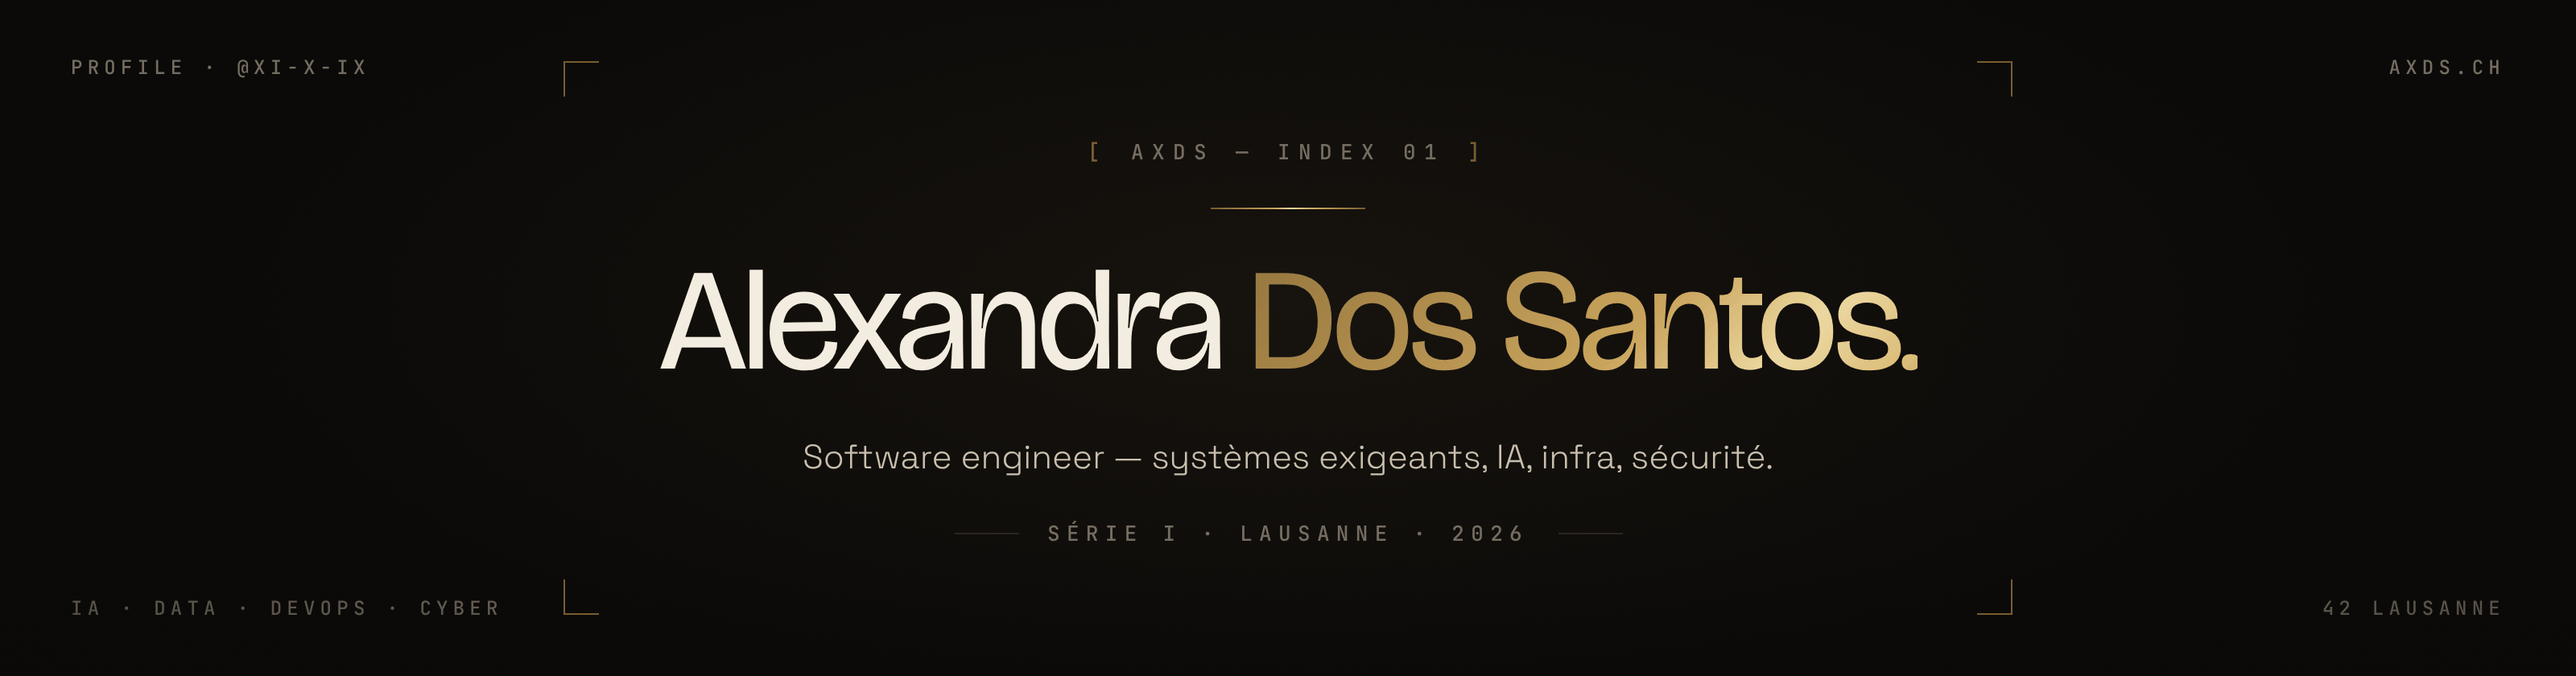
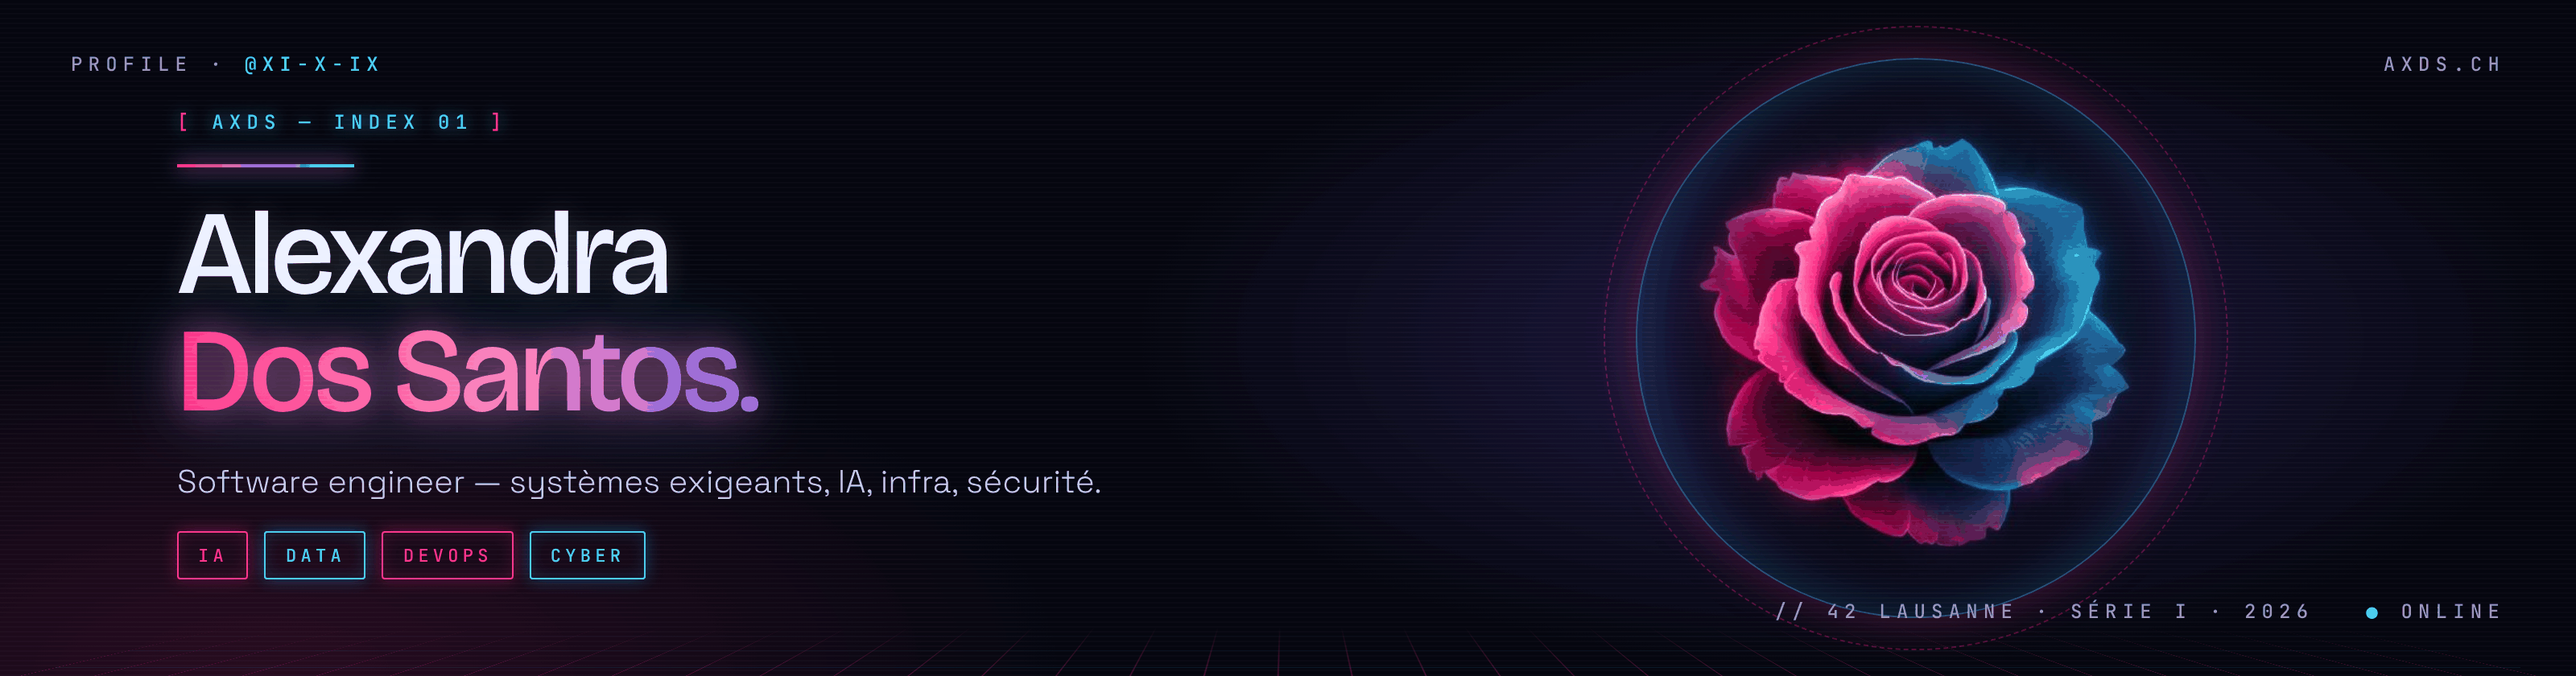
update: neon pink/blue theme for profile README
Banner and badges recolored to match the neon rose avatar: dark navy,
pink #ff2e88 and blue #22b8ff, avatar in the banner, retro grid. The
pixel-art cyber room GIF from the old README returns in the footer.

Claude-Session: https://claude.ai/code/session_01SvYvF74i9Tf2cNn3vD8FiA

diff --git a/README.md b/README.md
@@ -4,9 +4,9 @@
 
 <br>
 
-<a href="https://axds.ch"><img src="https://img.shields.io/badge/axds.ch-0a0908?style=for-the-badge&logo=googlechrome&logoColor=c9a45c" alt="axds.ch" /></a>
-<a href="https://www.linkedin.com/in/axds"><img src="https://img.shields.io/badge/LinkedIn-0a0908?style=for-the-badge&logo=linkedin&logoColor=c9a45c" alt="LinkedIn" /></a>
-<a href="mailto:contact@axds.ch"><img src="https://img.shields.io/badge/contact@axds.ch-0a0908?style=for-the-badge&logo=maildotru&logoColor=c9a45c" alt="Email" /></a>
+<a href="https://axds.ch"><img src="https://img.shields.io/badge/axds.ch-0d0f22?style=for-the-badge&logo=googlechrome&logoColor=22b8ff" alt="axds.ch" /></a>
+<a href="https://www.linkedin.com/in/axds"><img src="https://img.shields.io/badge/LinkedIn-0d0f22?style=for-the-badge&logo=linkedin&logoColor=22b8ff" alt="LinkedIn" /></a>
+<a href="mailto:contact@axds.ch"><img src="https://img.shields.io/badge/contact@axds.ch-0d0f22?style=for-the-badge&logo=maildotru&logoColor=ff2e88" alt="Email" /></a>
 
 </div>
 
@@ -113,8 +113,8 @@ Huit ans en environnements exigeants — Assistant Manager au Southbank Centre (
 
 <div align="center">
 
-<img src="https://img.shields.io/badge/Common%20Core-100%25-0a0908?style=for-the-badge&logo=42&logoColor=c9a45c&labelColor=1b1814" alt="Common Core 100%" />
-<img src="https://img.shields.io/badge/42%20Advanced-Niveau%2011%20%2F%2021-0a0908?style=for-the-badge&logo=42&logoColor=c9a45c&labelColor=1b1814" alt="42 Advanced niveau 11/21" />
+<img src="https://img.shields.io/badge/Common%20Core-100%25-0d0f22?style=for-the-badge&logo=42&logoColor=ff2e88&labelColor=1a1d3a" alt="Common Core 100%" />
+<img src="https://img.shields.io/badge/42%20Advanced-Niveau%2011%20%2F%2021-0d0f22?style=for-the-badge&logo=42&logoColor=ff2e88&labelColor=1a1d3a" alt="42 Advanced niveau 11/21" />
 
 </div>
 
@@ -128,11 +128,11 @@ Huit ans en environnements exigeants — Assistant Manager au Southbank Centre (
 
 | | |
 |:--|:--|
-| **IA · Data** | ![Python](https://img.shields.io/badge/Python-12100e?style=flat-square&logo=python&logoColor=c9a45c) ![NumPy](https://img.shields.io/badge/NumPy-12100e?style=flat-square&logo=numpy&logoColor=c9a45c) ![Pandas](https://img.shields.io/badge/Pandas-12100e?style=flat-square&logo=pandas&logoColor=c9a45c) ![LangChain](https://img.shields.io/badge/LangChain-12100e?style=flat-square&logo=langchain&logoColor=c9a45c) ![Ollama](https://img.shields.io/badge/Ollama-12100e?style=flat-square&logo=ollama&logoColor=c9a45c) |
-| **DevOps** | ![Docker](https://img.shields.io/badge/Docker-12100e?style=flat-square&logo=docker&logoColor=c9a45c) ![Kubernetes](https://img.shields.io/badge/Kubernetes-12100e?style=flat-square&logo=kubernetes&logoColor=c9a45c) ![Terraform](https://img.shields.io/badge/Terraform-12100e?style=flat-square&logo=terraform&logoColor=c9a45c) ![GitHub Actions](https://img.shields.io/badge/GitHub%20Actions-12100e?style=flat-square&logo=githubactions&logoColor=c9a45c) ![NGINX](https://img.shields.io/badge/NGINX-12100e?style=flat-square&logo=nginx&logoColor=c9a45c) ![PostgreSQL](https://img.shields.io/badge/PostgreSQL-12100e?style=flat-square&logo=postgresql&logoColor=c9a45c) |
-| **Systèmes** | ![C](https://img.shields.io/badge/C-12100e?style=flat-square&logo=c&logoColor=c9a45c) ![C++](https://img.shields.io/badge/C%2B%2B-12100e?style=flat-square&logo=cplusplus&logoColor=c9a45c) ![Linux](https://img.shields.io/badge/Linux-12100e?style=flat-square&logo=linux&logoColor=c9a45c) ![Bash](https://img.shields.io/badge/Bash-12100e?style=flat-square&logo=gnubash&logoColor=c9a45c) ![Git](https://img.shields.io/badge/Git-12100e?style=flat-square&logo=git&logoColor=c9a45c) |
-| **Cyber** | ![Trivy](https://img.shields.io/badge/Trivy-12100e?style=flat-square&logo=aqua&logoColor=c9a45c) ![OWASP](https://img.shields.io/badge/OWASP-12100e?style=flat-square&logo=owasp&logoColor=c9a45c) ![Nmap](https://img.shields.io/badge/Nmap-12100e?style=flat-square) ![Wireshark](https://img.shields.io/badge/Wireshark-12100e?style=flat-square&logo=wireshark&logoColor=c9a45c) |
-| **Web** | ![TypeScript](https://img.shields.io/badge/TypeScript-12100e?style=flat-square&logo=typescript&logoColor=c9a45c) ![Next.js](https://img.shields.io/badge/Next.js-12100e?style=flat-square&logo=nextdotjs&logoColor=c9a45c) ![NestJS](https://img.shields.io/badge/NestJS-12100e?style=flat-square&logo=nestjs&logoColor=c9a45c) ![Prisma](https://img.shields.io/badge/Prisma-12100e?style=flat-square&logo=prisma&logoColor=c9a45c) |
+| **IA · Data** | ![Python](https://img.shields.io/badge/Python-0d0f22?style=flat-square&logo=python&logoColor=ff2e88) ![NumPy](https://img.shields.io/badge/NumPy-0d0f22?style=flat-square&logo=numpy&logoColor=ff2e88) ![Pandas](https://img.shields.io/badge/Pandas-0d0f22?style=flat-square&logo=pandas&logoColor=ff2e88) ![LangChain](https://img.shields.io/badge/LangChain-0d0f22?style=flat-square&logo=langchain&logoColor=ff2e88) ![Ollama](https://img.shields.io/badge/Ollama-0d0f22?style=flat-square&logo=ollama&logoColor=ff2e88) |
+| **DevOps** | ![Docker](https://img.shields.io/badge/Docker-0d0f22?style=flat-square&logo=docker&logoColor=22b8ff) ![Kubernetes](https://img.shields.io/badge/Kubernetes-0d0f22?style=flat-square&logo=kubernetes&logoColor=22b8ff) ![Terraform](https://img.shields.io/badge/Terraform-0d0f22?style=flat-square&logo=terraform&logoColor=22b8ff) ![GitHub Actions](https://img.shields.io/badge/GitHub%20Actions-0d0f22?style=flat-square&logo=githubactions&logoColor=22b8ff) ![NGINX](https://img.shields.io/badge/NGINX-0d0f22?style=flat-square&logo=nginx&logoColor=22b8ff) ![PostgreSQL](https://img.shields.io/badge/PostgreSQL-0d0f22?style=flat-square&logo=postgresql&logoColor=22b8ff) |
+| **Systèmes** | ![C](https://img.shields.io/badge/C-0d0f22?style=flat-square&logo=c&logoColor=22b8ff) ![C++](https://img.shields.io/badge/C%2B%2B-0d0f22?style=flat-square&logo=cplusplus&logoColor=22b8ff) ![Linux](https://img.shields.io/badge/Linux-0d0f22?style=flat-square&logo=linux&logoColor=22b8ff) ![Bash](https://img.shields.io/badge/Bash-0d0f22?style=flat-square&logo=gnubash&logoColor=22b8ff) ![Git](https://img.shields.io/badge/Git-0d0f22?style=flat-square&logo=git&logoColor=22b8ff) |
+| **Cyber** | ![Trivy](https://img.shields.io/badge/Trivy-0d0f22?style=flat-square&logo=aqua&logoColor=ff2e88) ![OWASP](https://img.shields.io/badge/OWASP-0d0f22?style=flat-square&logo=owasp&logoColor=ff2e88) ![Nmap](https://img.shields.io/badge/Nmap-0d0f22?style=flat-square) ![Wireshark](https://img.shields.io/badge/Wireshark-0d0f22?style=flat-square&logo=wireshark&logoColor=ff2e88) |
+| **Web** | ![TypeScript](https://img.shields.io/badge/TypeScript-0d0f22?style=flat-square&logo=typescript&logoColor=22b8ff) ![Next.js](https://img.shields.io/badge/Next.js-0d0f22?style=flat-square&logo=nextdotjs&logoColor=22b8ff) ![NestJS](https://img.shields.io/badge/NestJS-0d0f22?style=flat-square&logo=nestjs&logoColor=22b8ff) ![Prisma](https://img.shields.io/badge/Prisma-0d0f22?style=flat-square&logo=prisma&logoColor=22b8ff) |
 
 <br>
 
@@ -147,10 +147,12 @@ Huit ans en environnements exigeants — Assistant Manager au Southbank Centre (
 
 <br>
 
-<a href="https://axds.ch"><img src="https://img.shields.io/badge/Voir%20le%20portfolio%20%E2%86%92-0a0908?style=for-the-badge" alt="Voir le portfolio" /></a>
-<a href="mailto:contact@axds.ch"><img src="https://img.shields.io/badge/Me%20contacter%20%E2%86%92-c9a45c?style=for-the-badge" alt="Me contacter" /></a>
+<a href="https://axds.ch"><img src="https://img.shields.io/badge/Voir%20le%20portfolio%20%E2%86%92-22b8ff?style=for-the-badge" alt="Voir le portfolio" /></a>
+<a href="mailto:contact@axds.ch"><img src="https://img.shields.io/badge/Me%20contacter%20%E2%86%92-ff2e88?style=for-the-badge" alt="Me contacter" /></a>
 
 <br><br>
+
+<img src="77caa32884d735d439ade45ba37feaf2.gif" alt="" width="100%" />
 
 <sub>AXDS.CH · LAUSANNE · ÉDITION 2026</sub>
 
